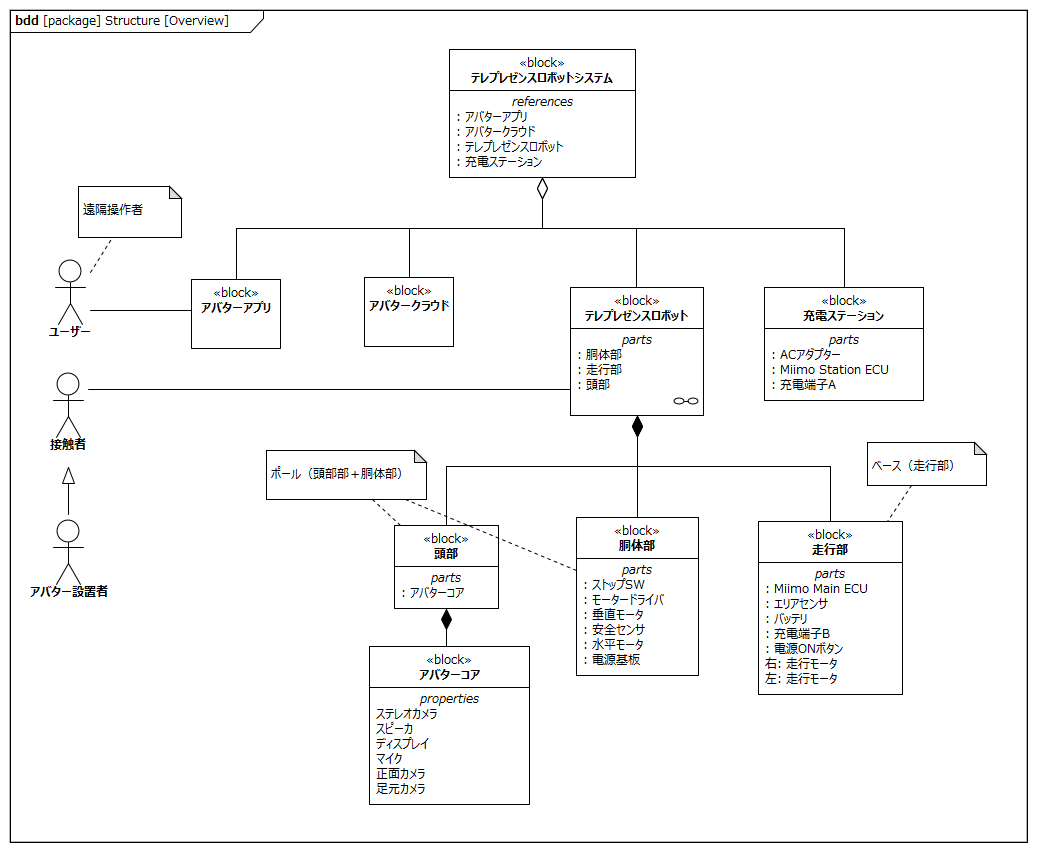
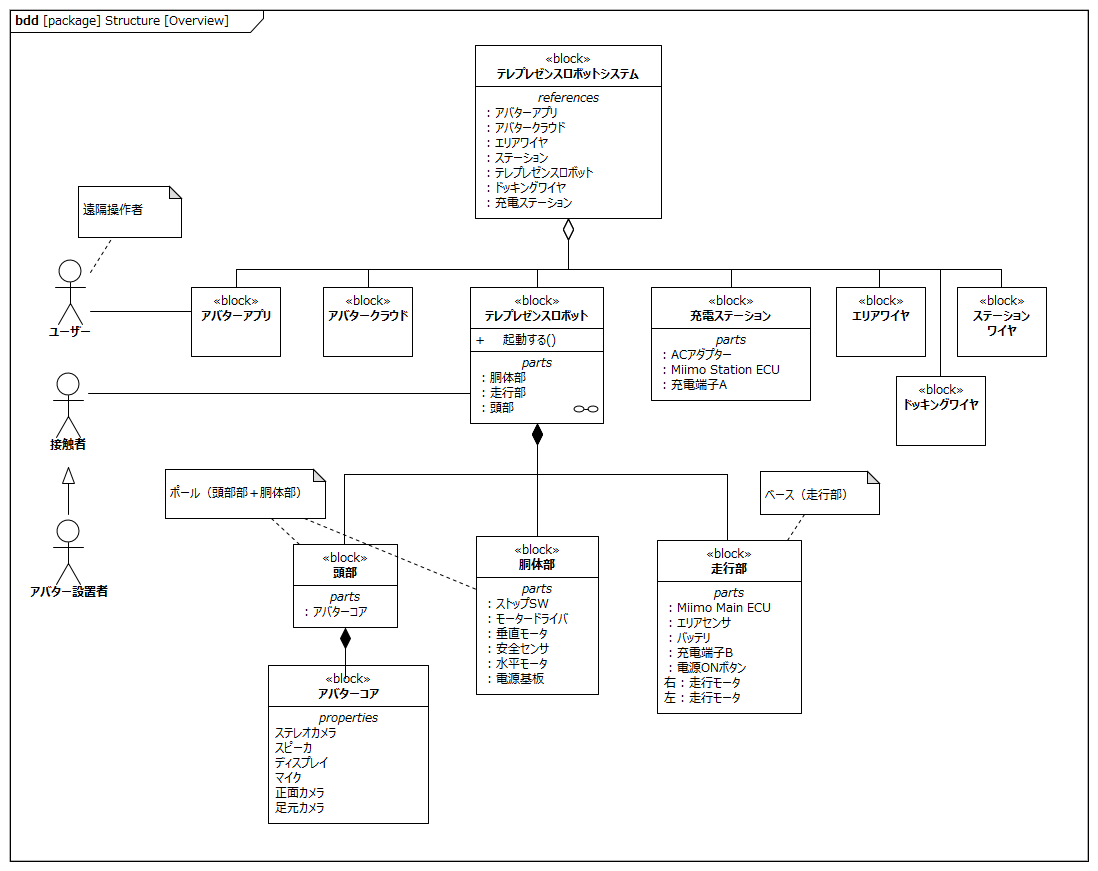
update structure

diff --git a/requirements/requirement.md b/requirements/requirement.md
@@ -79,7 +79,7 @@
 
 # システムの構成
 
-テレプレゼンスロボットシステムは、アバターアプリ（クライアント）、アバタークラウド（サーバー）、テレプレゼンスロボット本体および充電ステーションにより構成される。
+テレプレゼンスロボットシステムは、アバターアプリ（クライアント）、アバタークラウド（サーバー）、テレプレゼンスロボット本体および充電ステーション、エリアワイヤ、ステーションワイヤ、ドッキングワイヤにより構成される。
 
 ユーザ（遠隔操作者）およびアバター設置者はアバターアプリを介して、テレプレゼンスロボットの遠隔操作、テレプレゼンスロボットの先にいる接触者とのコミュニケーションを行うことができる。
 
